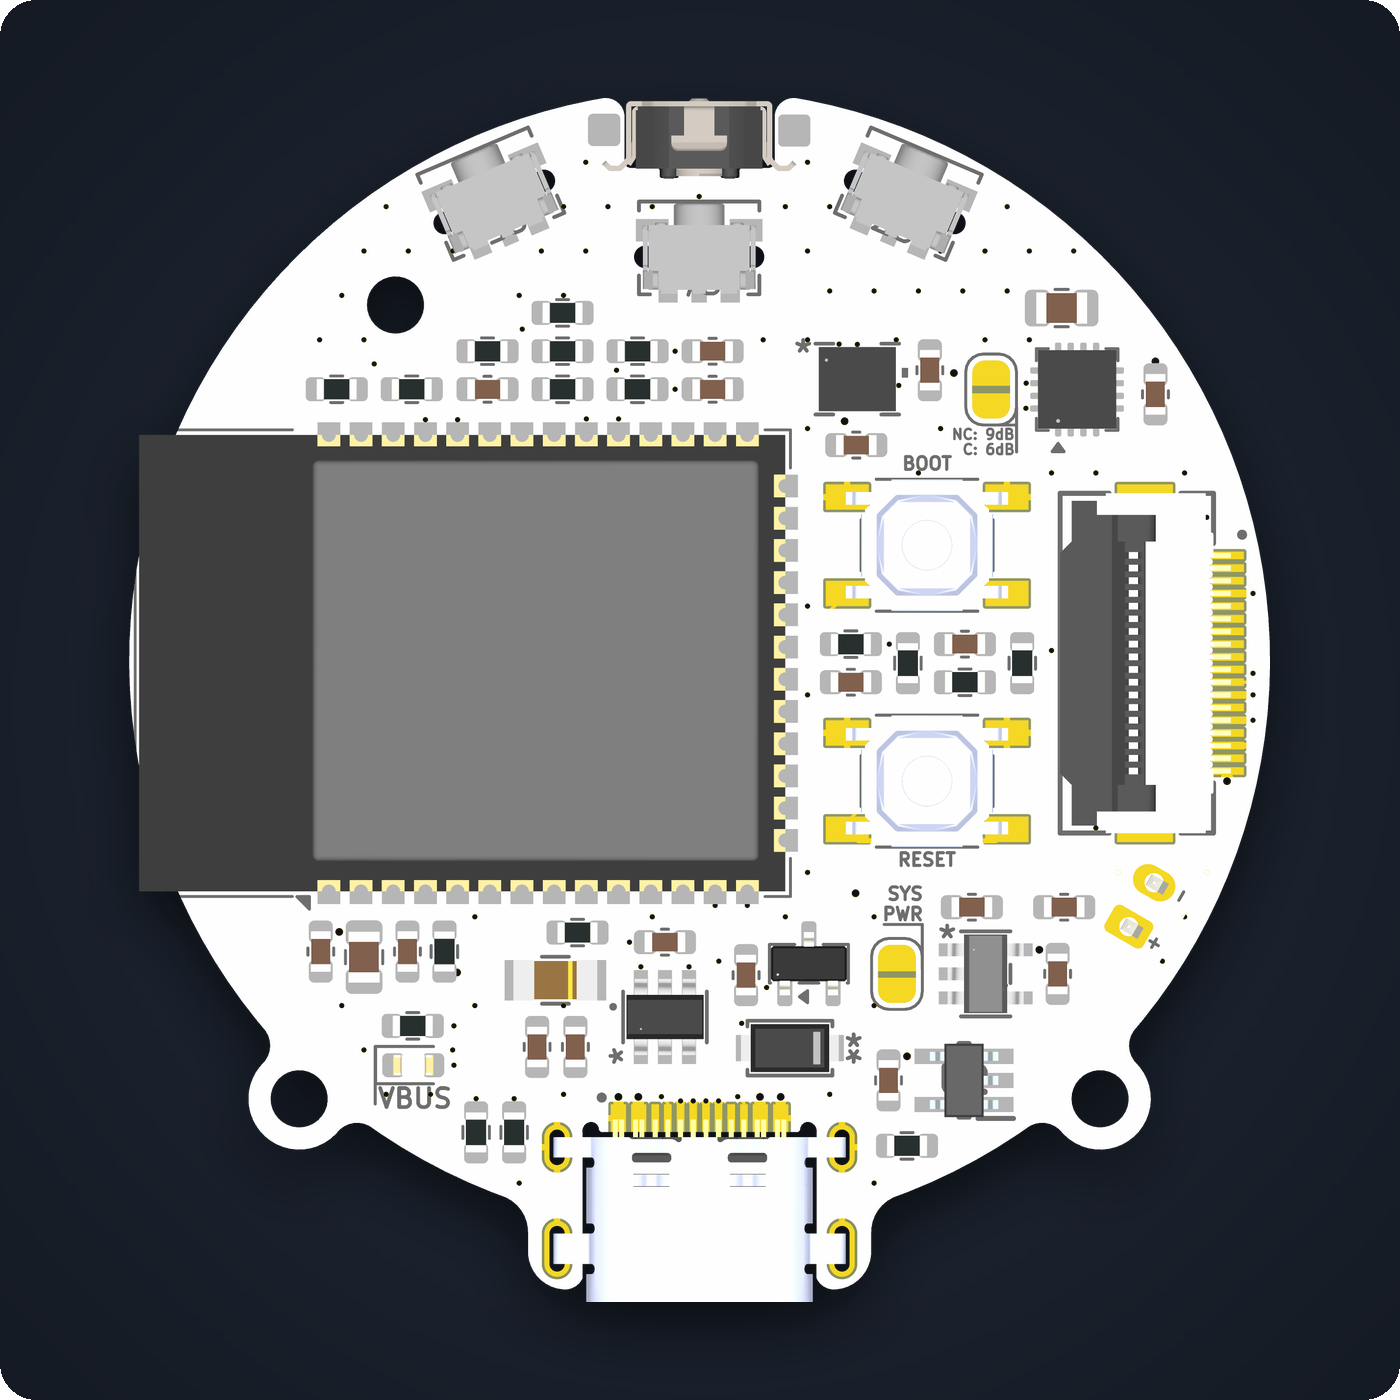
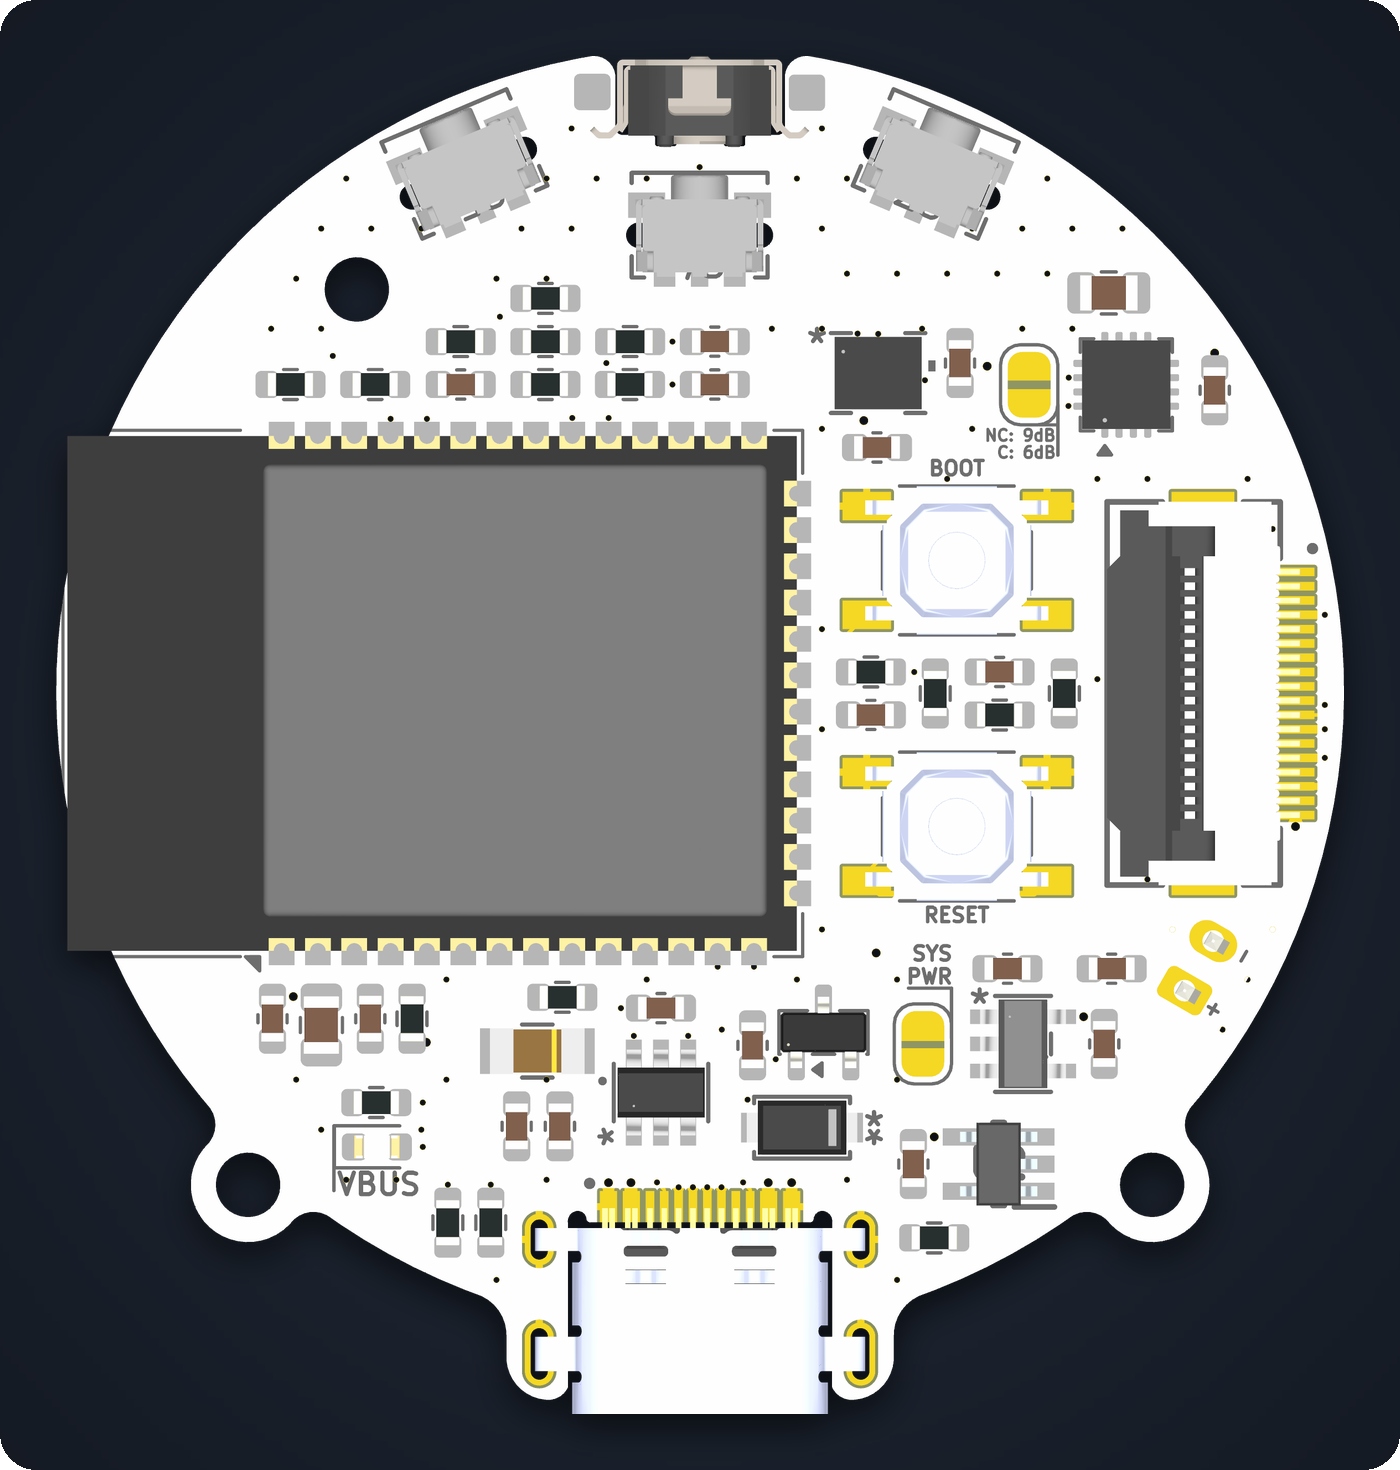
Use record and smiley faces in the hero, tighten board renders

diff --git a/scripts/render_docs.py b/scripts/render_docs.py
@@ -6,8 +6,9 @@
 
 The 3d, layers and sch groups are generated from the KiCad project, which is
 only ever read. The fusion group takes the Fusion 360 renders saved in
-docs/fusion/ and puts them on the same dark cards. Everything is written to
-docs/.
+docs/fusion/ and puts them on the same dark cards; it also builds the gif of
+mockup watch faces on the assembled render from the pictures in docs/faces/.
+Everything is written to docs/.
 
 Requirements: KiCad 9+ (kicad-cli), Pillow, NumPy, SciPy, and macOS (SVGs are
 rasterised with Quick Look's `qlmanage`, and the watch face uses a system font).
@@ -36,12 +37,15 @@ BG = "#0d1117"  # card background (edge of the gradient)
 BG_GLOW = "#232c3b"  # card background (centre of the gradient)
 
 # name -> (kicad-cli render args, output canvas size)
+# name -> (kicad-cli render args, card width). The card height follows the
+# board, so every card has the same narrow margin all the way round.
 VIEWS_3D = {
-    "hero": (["--side", "top", "--perspective", "--rotate", "-52,0,24"], (2000, 1180)),
-    "board-top": (["--side", "top"], (1400, 1400)),
-    "board-bottom": (["--side", "bottom"], (1400, 1400)),
-    "board-angle-back": (["--side", "bottom", "--perspective", "--rotate", "-52,0,-24"], (1400, 1400)),
+    "hero": (["--side", "top", "--perspective", "--rotate", "-52,0,24"], 2000),
+    "board-top": (["--side", "top"], 1400),
+    "board-bottom": (["--side", "bottom"], 1400),
+    "board-angle-back": (["--side", "bottom", "--perspective", "--rotate", "-52,0,-24"], 2000),
 }
+MARGIN_3D = 0.04  # margin around the board, as a fraction of the card width
 
 # name -> layers plotted (Edge.Cuts is always added)
 VIEWS_LAYERS = {
@@ -110,7 +114,7 @@ def backdrop(size):
 
 def render_3d(tmp):
     print("3D renders")
-    for name, (args, canvas) in VIEWS_3D.items():
+    for name, (args, w) in VIEWS_3D.items():
         raw = tmp / (name + ".png")
         # Rendered large and scaled down afterwards for clean edges.
         run([KICAD, "pcb", "render", "-o", raw, "-w", 3600, "-h", 3600, "--quality", "basic",
@@ -118,15 +122,17 @@ def render_3d(tmp):
         board = Image.open(raw).convert("RGBA")
         board = board.crop(board.getbbox())
 
-        w, h = canvas
-        scale = min(w * 0.86 / board.width, h * 0.86 / board.height)
-        board = board.resize((int(board.width * scale), int(board.height * scale)), Image.LANCZOS)
-        x, y = (w - board.width) // 2, (h - board.height) // 2
+        margin = round(w * MARGIN_3D)
+        scale = (w - 2 * margin) / board.width
+        board = board.resize((w - 2 * margin, round(board.height * scale)), Image.LANCZOS)
+        h = board.height + 2 * margin
+        canvas = (w, h)
+        x = y = margin
 
         card = backdrop(canvas).convert("RGBA")
         shadow = Image.new("RGBA", canvas, (0, 0, 0, 0))
-        shadow.paste((0, 0, 0, 150), (x, y + int(h * 0.018)), board.getchannel("A"))
-        card.alpha_composite(shadow.filter(ImageFilter.GaussianBlur(h * 0.02)))
+        shadow.paste((0, 0, 0, 150), (x, y + round(margin * 0.25)), board.getchannel("A"))
+        card.alpha_composite(shadow.filter(ImageFilter.GaussianBlur(margin * 0.3)))
         card.alpha_composite(board, (x, y))
         save(round_corners(card, 36), name)
 
@@ -296,9 +302,11 @@ def render_schematics(tmp):
 # --------------------------------------------------------------------------
 
 FUSION = DOCS / "fusion"
+FACES = DOCS / "faces"  # pictures used on the mockup watch faces
 FACE_IMAGE = "anachron-assembled"  # the render whose blank display gets a watch face
 BRASS = (201, 164, 92)
 ACCENT = (86, 156, 240)
+RECORD_ANGLE = 35  # how far the record is turned on the now-playing face, in degrees
 
 
 def fusion_background(a):
@@ -398,81 +406,71 @@ def draw_clock_face(size):
     return face.resize((size, size), Image.LANCZOS)
 
 
+def _vinyl_disc(diameter):
+    """The record cut out of docs/faces/vinyl.png as a round RGBA image."""
+    src = Image.open(FACES / "vinyl.png").convert("RGB")
+    a = np.asarray(src).astype(int)
+    backdrop_colour = np.median(np.concatenate([a[0], a[-1], a[:, 0], a[:, -1]]), 0)
+    # Far from the backdrop colour = the record itself (its soft shadow is closer).
+    solid = ndi.binary_fill_holes(np.abs(a - backdrop_colour).sum(2) > 200)
+    labels, _ = ndi.label(solid)
+    ys, xs = np.nonzero(labels == np.argmax(np.bincount(labels.ravel())[1:]) + 1)
+    cx, cy = (xs.min() + xs.max()) / 2, (ys.min() + ys.max()) / 2
+    r = min(xs.max() - xs.min(), ys.max() - ys.min()) / 2 - 3  # stay inside the edge
+    disc = src.crop((round(cx - r), round(cy - r), round(cx + r), round(cy + r)))
+    disc = disc.resize((diameter, diameter), Image.LANCZOS).convert("RGBA")
+    mask = Image.new("L", (diameter * 2, diameter * 2), 0)
+    ImageDraw.Draw(mask).ellipse([0, 0, diameter * 2 - 1, diameter * 2 - 1], fill=255)
+    disc.putalpha(mask.resize((diameter, diameter), Image.LANCZOS))
+    return disc
+
+
+_DISC = {}
+
+
 def draw_spotify_face(size, angle=0):
-    """A CD / vinyl face with a rotating album disc."""
+    """A now-playing face: the record from docs/faces/vinyl.png, turned by `angle`."""
     s = size * 2
     face = Image.new("RGB", (s, s), (8, 10, 14))
     draw = ImageDraw.Draw(face)
     c = s / 2
 
-    # Soft ring that stays fixed while the disc spins.
-    draw.ellipse([s * 0.05, s * 0.05, s * 0.95, s * 0.95], outline=(28, 34, 42), width=round(s * 0.012))
+    diameter = round(s * 0.76)
+    if diameter not in _DISC:
+        _DISC[diameter] = _vinyl_disc(diameter)
+    disc = _DISC[diameter].rotate(-angle, resample=Image.BICUBIC)
+    face.paste(disc, (round(c - diameter / 2), round(c - diameter / 2)), disc)
 
-    disc = Image.new("RGBA", (s, s), (0, 0, 0, 0))
-    d = ImageDraw.Draw(disc)
-    # Vinyl plate with concentric grooves.
-    d.ellipse([s * 0.08, s * 0.08, s * 0.92, s * 0.92], fill=(18, 18, 22))
-    for r in range(int(s * 0.18), int(s * 0.44), max(round(s * 0.012), 1)):
-        d.ellipse([c - r, c - r, c + r, c + r], outline=(32, 32, 38), width=max(round(s * 0.002), 1))
-    # Label / album art in the middle.
-    label_r = s * 0.17
-    d.ellipse([c - label_r, c - label_r, c + label_r, c + label_r], fill=(30, 215, 96))
-    # Abstract album art: warm bars across a dark square inside the green label.
-    art = Image.new("RGBA", (s, s), (0, 0, 0, 0))
-    a = ImageDraw.Draw(art)
-    pad = s * 0.055
-    a.rounded_rectangle([c - label_r + pad, c - label_r + pad, c + label_r - pad, c + label_r - pad],
-                        radius=s * 0.02, fill=(18, 22, 28))
-    for i, colour in enumerate([(232, 90, 68), (240, 180, 70), (90, 170, 230), (180, 110, 220)]):
-        y0 = c - label_r + pad + s * 0.02 + i * s * 0.045
-        a.rectangle([c - label_r + pad + s * 0.02, y0, c + label_r - pad - s * 0.02, y0 + s * 0.032], fill=colour)
-    disc = Image.alpha_composite(disc, art)
-    # Spindle hole and a highlight wedge so rotation is visible.
-    d = ImageDraw.Draw(disc)
-    d.pieslice([s * 0.08, s * 0.08, s * 0.92, s * 0.92], -18, 8, fill=(255, 255, 255, 28))
-    d.ellipse([c - s * 0.028, c - s * 0.028, c + s * 0.028, c + s * 0.028], fill=(8, 10, 14))
-    disc = disc.rotate(-angle, resample=Image.BICUBIC, center=(c, c))
-    face.paste(disc, (0, 0), disc)
-
-    title = _face_font(round(s * 0.038))
-    small = _face_font(round(s * 0.03))
-    draw.text((c, s * 0.12), "NOW PLAYING", font=small, fill=(30, 215, 96), anchor="mm")
-    draw.text((c, s * 0.88), "Midnight Tram", font=title, fill=(230, 232, 236), anchor="mm")
+    green = (30, 215, 96)
+    draw.text((c, s * 0.068), "NOW PLAYING", font=_face_font(round(s * 0.03)), fill=green, anchor="mm")
+    # Progress bar under the record.
+    y, x0, x1, w = s * 0.932, s * 0.39, s * 0.61, round(s * 0.008)
+    draw.line([(x0, y), (x1, y)], fill=(60, 66, 76), width=w)
+    draw.line([(x0, y), (x0 + (x1 - x0) * 0.4, y)], fill=green, width=w)
     return face.resize((size, size), Image.LANCZOS)
 
 
+def _pet_sprite(width):
+    """The smiley from docs/faces/pet.png, trimmed to its drawing."""
+    a = np.asarray(Image.open(FACES / "pet.png").convert("RGBA")).copy()
+    # Keep only what is inside the black outline; the pale fringe around it is
+    # left over from the white page the smiley was drawn on.
+    outline = (a[..., :3].max(2) < 120) & (a[..., 3] > 128)
+    inside = ndi.binary_fill_holes(ndi.binary_closing(outline, iterations=2))
+    a[~inside, :3] = 0
+    a[..., 3] = np.uint8(np.clip(ndi.gaussian_filter(inside.astype(float), 0.8), 0, 1) * 255)
+    ys, xs = np.nonzero(inside)
+    src = Image.fromarray(a).crop((xs.min() - 2, ys.min() - 2, xs.max() + 3, ys.max() + 3))
+    return src.resize((width, round(src.height * width / src.width)), Image.LANCZOS)
+
+
 def draw_pet_face(size):
-    """A tiny Tamagotchi-style creature on a simple face."""
+    """A Tamagotchi-style face: just the smiley."""
     s = size * 2
     face = Image.new("RGB", (s, s), (14, 18, 28))
-    draw = ImageDraw.Draw(face)
     c = s / 2
-
-    # Soft vignette ring.
-    draw.ellipse([s * 0.06, s * 0.06, s * 0.94, s * 0.94], outline=(40, 52, 72), width=round(s * 0.01))
-
-    # Creature body.
-    body = [c - s * 0.18, c - s * 0.08, c + s * 0.18, c + s * 0.28]
-    draw.ellipse(body, fill=(255, 196, 110))
-    # Ears.
-    draw.ellipse([c - s * 0.22, c - s * 0.22, c - s * 0.05, c - s * 0.02], fill=(255, 196, 110))
-    draw.ellipse([c + s * 0.05, c - s * 0.22, c + s * 0.22, c - s * 0.02], fill=(255, 196, 110))
-    draw.ellipse([c - s * 0.175, c - s * 0.175, c - s * 0.09, c - s * 0.07], fill=(255, 150, 150))
-    draw.ellipse([c + s * 0.09, c - s * 0.175, c + s * 0.175, c - s * 0.07], fill=(255, 150, 150))
-    # Eyes and blush.
-    draw.ellipse([c - s * 0.1, c + s * 0.02, c - s * 0.04, c + s * 0.1], fill=(28, 24, 36))
-    draw.ellipse([c + s * 0.04, c + s * 0.02, c + s * 0.1, c + s * 0.1], fill=(28, 24, 36))
-    draw.ellipse([c - s * 0.085, c + s * 0.035, c - s * 0.06, c + s * 0.06], fill=(255, 255, 255))
-    draw.ellipse([c + s * 0.055, c + s * 0.035, c + s * 0.08, c + s * 0.06], fill=(255, 255, 255))
-    draw.ellipse([c - s * 0.16, c + s * 0.12, c - s * 0.1, c + s * 0.16], fill=(255, 140, 140, ))
-    draw.ellipse([c + s * 0.1, c + s * 0.12, c + s * 0.16, c + s * 0.16], fill=(255, 140, 140))
-    # Smile.
-    draw.arc([c - s * 0.06, c + s * 0.12, c + s * 0.06, c + s * 0.2], 20, 160, fill=(28, 24, 36), width=round(s * 0.012))
-
-    title = _face_font(round(s * 0.036))
-    small = _face_font(round(s * 0.028))
-    draw.text((c, s * 0.14), "PET", font=small, fill=ACCENT, anchor="mm")
-    draw.text((c, s * 0.86), "hungry · 3h", font=title, fill=(210, 214, 222), anchor="mm")
+    sprite = _pet_sprite(round(s * 0.5))
+    face.paste(sprite, (round(c - sprite.width / 2), round(c - sprite.height / 2)), sprite)
     return face.resize((size, size), Image.LANCZOS)
 
 
@@ -560,7 +558,7 @@ def _blend(a, b, t):
 
 
 def render_hero_faces(blank, coeffs, alpha):
-    """Static clock PNG plus a GIF that cycles clock → Spotify → pet."""
+    """Static clock PNG plus a GIF that fades between the clock, record and pet faces."""
     size = 1600
     width = 900
     height = round(blank.height * width / blank.width)
@@ -577,7 +575,7 @@ def render_hero_faces(blank, coeffs, alpha):
     save(style_fusion(paint_face(blank, draw_clock_face(size), coeffs, alpha), mat), FACE_IMAGE)
 
     pet_f = frame_from(draw_pet_face(size))
-    spin = [frame_from(draw_spotify_face(size, angle)) for angle in range(0, 360, 30)]
+    record_f = frame_from(draw_spotify_face(size, RECORD_ANGLE))
 
     frames, durations = [], []
 
@@ -590,17 +588,36 @@ def render_hero_faces(blank, coeffs, alpha):
             frames.append(_blend(a, b, i / (steps + 1)))
             durations.append(ms)
 
-    hold(clock_f, 1600)
-    crossfade(clock_f, spin[0])
-    for f in spin + spin:  # two turns of the disc
-        hold(f, 90)
-    crossfade(spin[-1], pet_f)
-    hold(pet_f, 1600)
-    crossfade(pet_f, clock_f)
+    # Each face is a still; the gif only fades from one to the next.
+    for shown, following in [(clock_f, record_f), (record_f, pet_f), (pet_f, clock_f)]:
+        hold(shown, 2200)
+        crossfade(shown, following)
 
+    # One palette for every frame, picked from all three faces. A fixed grain
+    # (the same in every frame) hides banding in the dark backdrop without
+    # making the still parts of the picture differ between frames, so only the
+    # screen has to be stored for most of them.
+    sheet = Image.new("RGB", (width * 2, height * 2))
+    for i, sample in enumerate([clock_f, record_f, record_f, pet_f]):
+        sheet.paste(sample, (width * (i % 2), height * (i // 2)))
+    # The small accents (green text, seconds hand) cover too few pixels to win
+    # palette entries on their own, so they are added by hand, with darker
+    # steps for their soft edges.
+    accents = [tuple(round(v * k) for v in colour)
+               for colour in [(30, 215, 96), ACCENT] for k in (1, 0.75, 0.5, 0.3)]
+    base = sheet.quantize(colors=256 - len(accents), method=Image.MEDIANCUT, dither=Image.NONE)
+    palette = Image.new("P", (1, 1))
+    palette.putpalette(base.getpalette()[:(256 - len(accents)) * 3] + [v for c in accents for v in c])
+    grain = np.random.default_rng(0).uniform(-2.5, 2.5, (height, width, 1))
+
+    def to_palette(frame):
+        noisy = np.uint8(np.clip(np.asarray(frame).astype(float) + grain, 0, 255))
+        return Image.fromarray(noisy).quantize(palette=palette, dither=Image.NONE)
+
+    frames = [to_palette(f) for f in frames]
     path = IMAGES / (FACE_IMAGE + ".gif")
     frames[0].save(path, save_all=True, append_images=frames[1:], duration=durations,
-                   loop=0, optimize=True)
+                   loop=0, optimize=False)
     print("  %-28s %4dx%-4d %5d KB" % (path.name, width, height, path.stat().st_size // 1024))
 
 

diff --git a/README.md b/README.md
@@ -7,7 +7,7 @@
 </p>
 
 <p align="center">
-  <img src="docs/images/anachron-assembled.gif" alt="Assembled Anachron pocket watch cycling between a clock face, a spinning Spotify disc and a pet face" width="850">
+  <img src="docs/images/anachron-assembled.gif" alt="Assembled Anachron pocket watch switching between a clock face, a record and a smiley pet face" width="850">
 </p>
 
 <p align="center">
@@ -94,19 +94,17 @@ flowchart LR
 
 ## The board
 
-<table>
-  <tr>
-    <td width="50%"><img src="docs/images/board-top.png" alt="Top side of the PCB"></td>
-    <td width="50%"><img src="docs/images/board-bottom.png" alt="Bottom side of the PCB"></td>
-  </tr>
-  <tr>
-    <td align="center"><b>Top</b><br>Nearly every component is on this side.</td>
-    <td align="center"><b>Bottom</b><br>Battery connector, test pads and the haptic motor pads.</td>
-  </tr>
-</table>
+<p align="center">
+  <img src="docs/images/board-top.png" alt="Top side of the PCB" width="376">
+  <img src="docs/images/board-bottom.png" alt="Bottom side of the PCB" width="376">
+</p>
 
 <p align="center">
-  <img src="docs/images/board-angle-back.png" alt="Angled view of the back of the PCB" width="560">
+  <b>Top</b> (left): nearly every component is on this side. <b>Bottom</b> (right): battery connector, test pads and the haptic motor pads.
+</p>
+
+<p align="center">
+  <img src="docs/images/board-angle-back.png" alt="Angled view of the back of the PCB" width="760">
 </p>
 
 | | |
@@ -326,12 +324,13 @@ Anachron/
 docs/
   images/                 renders, layer plots and schematic images
   fusion/                 Fusion 360 renders as exported
+  faces/                  pictures used on the mockup watch faces
   sketches/               hand-drawn concept sketch
   Anachron-schematic.pdf  all schematic sheets
 scripts/render_docs.py    regenerates the README images and schematic PDF
 ```
 
-The PCB renders, layer plots and schematic images are generated from the KiCad files. The enclosure images are made from the Fusion 360 renders in `docs/fusion/`: the script puts them on the same dark background and builds the mockup face GIF. To refresh everything, run the following command.
+The PCB renders, layer plots and schematic images are generated from the KiCad files. The enclosure images are made from the Fusion 360 renders in `docs/fusion/`: the script puts them on the same dark background and builds the mockup faces shown at the top of this page, using the pictures in `docs/faces/`. To refresh everything, run the following command.
 
 ```sh
 python3 scripts/render_docs.py
